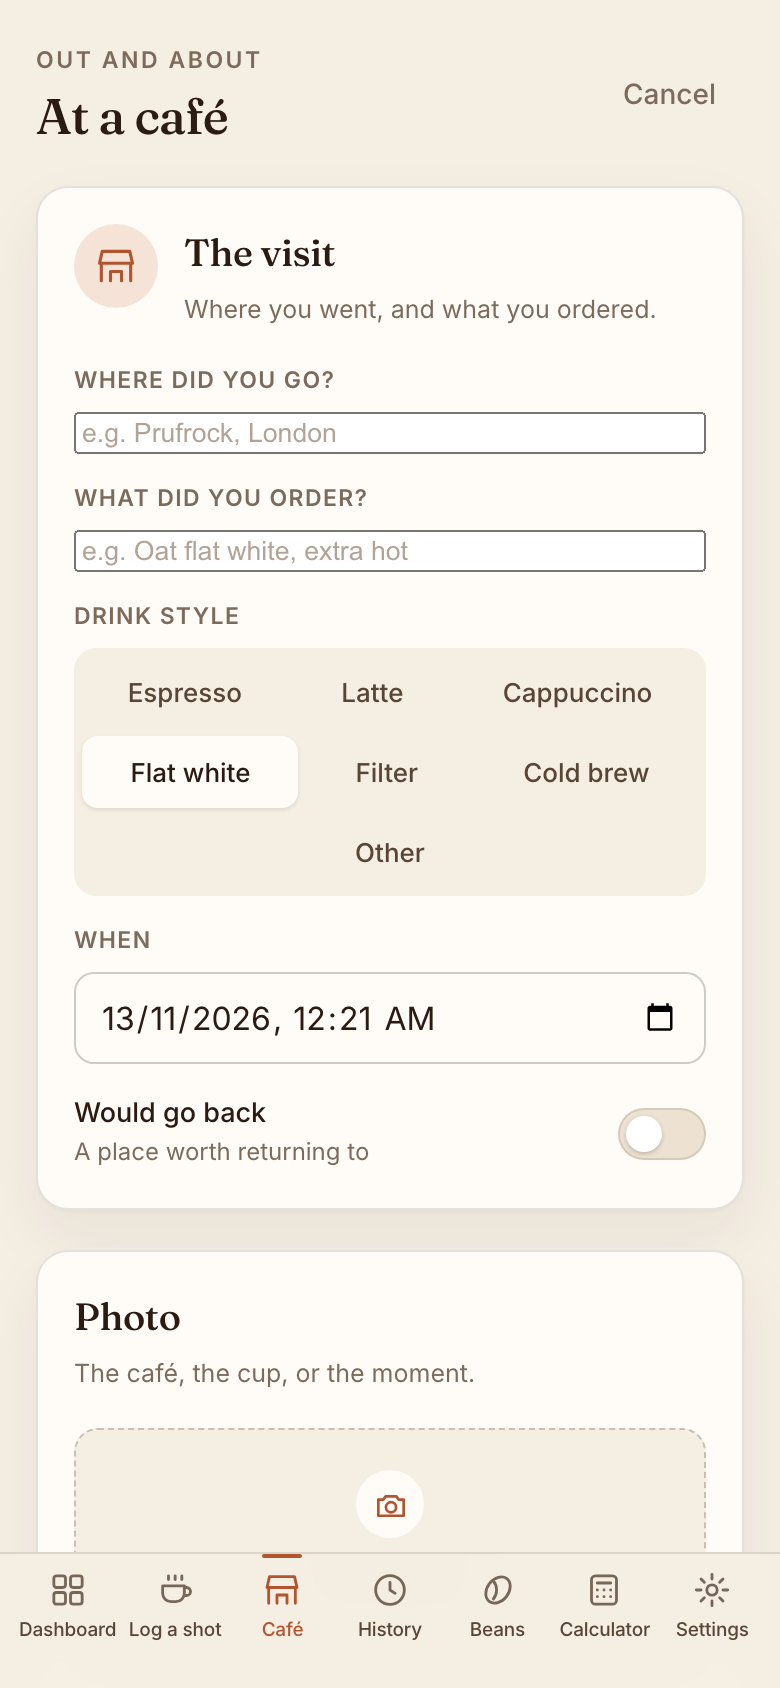
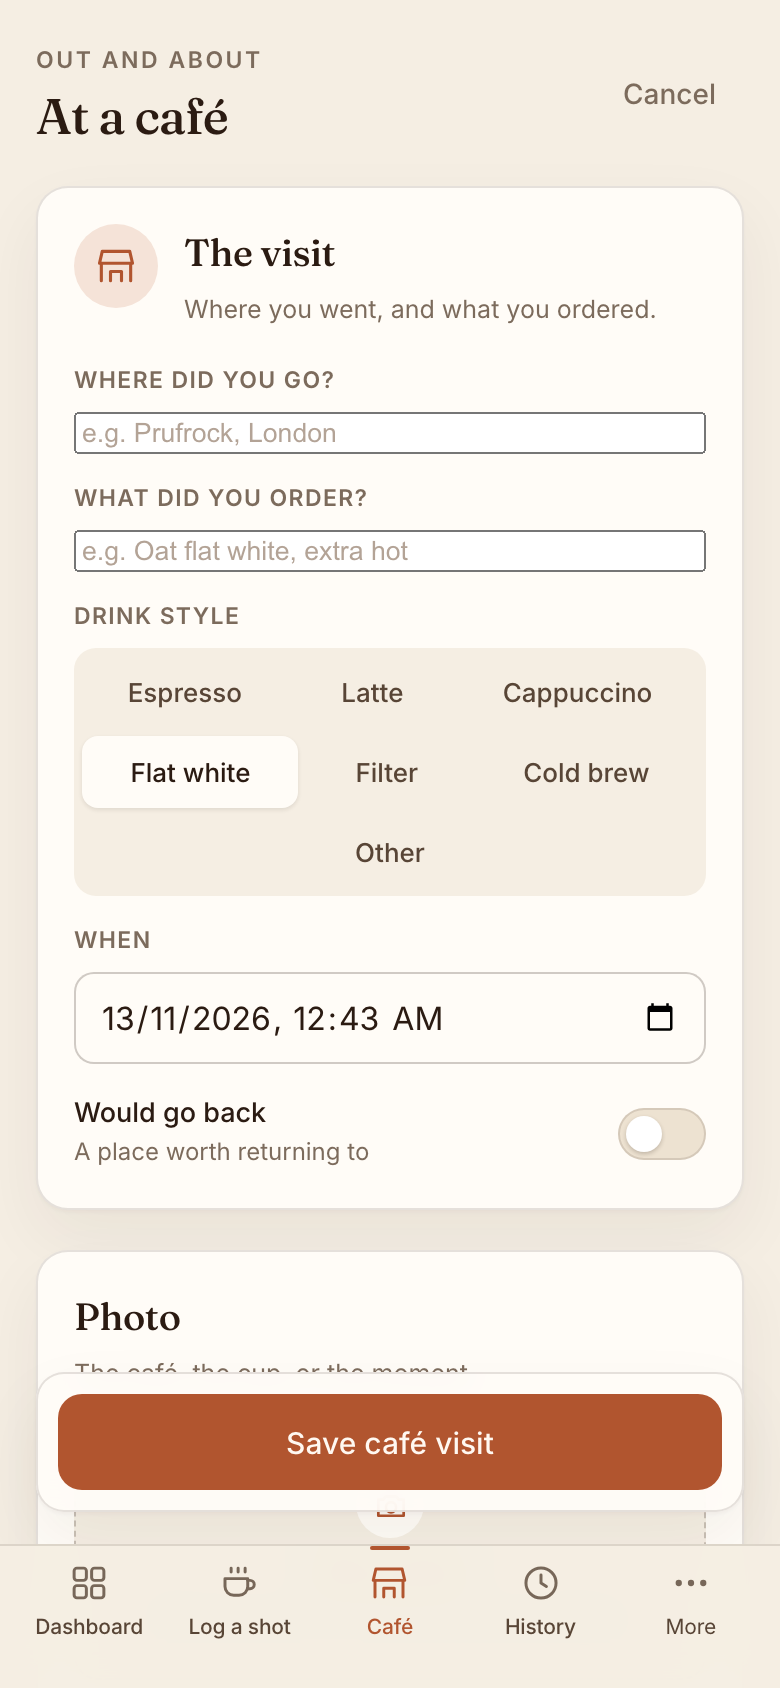
Tidy the mobile navigation bar

diff --git a/static/app.js b/static/app.js
@@ -46,6 +46,7 @@
     grid: '<svg viewBox="0 0 24 24" fill="none" stroke="currentColor" stroke-width="1.7" stroke-linecap="round" stroke-linejoin="round"><rect x="3.5" y="3.5" width="7" height="7" rx="1.6"/><rect x="13.5" y="3.5" width="7" height="7" rx="1.6"/><rect x="3.5" y="13.5" width="7" height="7" rx="1.6"/><rect x="13.5" y="13.5" width="7" height="7" rx="1.6"/></svg>',
     cup: '<svg viewBox="0 0 24 24" fill="none" stroke="currentColor" stroke-width="1.7" stroke-linecap="round" stroke-linejoin="round"><path d="M4 9.5h13v4.5a5 5 0 0 1-5 5H9a5 5 0 0 1-5-5V9.5Z"/><path d="M17 10.5h1.3a2.4 2.4 0 0 1 0 4.8H17"/><path d="M7.5 3.5v2.2M11.5 3.5v2.2M15.5 3.5v2.2"/></svg>',
     cafe: '<svg viewBox="0 0 24 24" fill="none" stroke="currentColor" stroke-width="1.7" stroke-linecap="round" stroke-linejoin="round"><path d="M4 20V10.5M20 20V10.5"/><path d="M3 10.5 4.5 4h15L21 10.5Z"/><path d="M9 20v-5h6v5"/></svg>',
+    more: '<svg viewBox="0 0 24 24" fill="currentColor" stroke="none"><circle cx="5" cy="12" r="1.8"/><circle cx="12" cy="12" r="1.8"/><circle cx="19" cy="12" r="1.8"/></svg>',
     clock: '<svg viewBox="0 0 24 24" fill="none" stroke="currentColor" stroke-width="1.7" stroke-linecap="round" stroke-linejoin="round"><circle cx="12" cy="12" r="8.6"/><path d="M12 7.4V12l3.1 2"/></svg>',
     bean: '<svg viewBox="0 0 24 24" fill="none" stroke="currentColor" stroke-width="1.7" stroke-linecap="round" stroke-linejoin="round"><ellipse cx="12" cy="12" rx="6.4" ry="8.6" transform="rotate(38 12 12)"/><path d="M9.2 6.6c2.6 3 2.6 7.8 0 10.8"/></svg>',
     calc: '<svg viewBox="0 0 24 24" fill="none" stroke="currentColor" stroke-width="1.7" stroke-linecap="round" stroke-linejoin="round"><rect x="4.5" y="3.5" width="15" height="17" rx="2.4"/><path d="M8 7.8h8"/><path d="M8 12h.01M12 12h.01M16 12h.01M8 16h.01M12 16h.01M16 16h.01"/></svg>',
@@ -853,9 +854,9 @@
     { id: "log", label: "Log a shot", icon: "cup" },
     { id: "cafe", label: "Café", icon: "cafe" },
     { id: "history", label: "History", icon: "clock" },
-    { id: "beans", label: "Beans", icon: "bean" },
-    { id: "calculator", label: "Calculator", icon: "calc" },
-    { id: "settings", label: "Settings", icon: "gear" }
+    { id: "beans", label: "Beans", icon: "bean", secondary: true },
+    { id: "calculator", label: "Calculator", icon: "calc", secondary: true },
+    { id: "settings", label: "Settings", icon: "gear", secondary: true }
   ];
 
   var TITLES = {
@@ -878,8 +879,11 @@
           '<nav class="nav" aria-label="Main">' +
             '<div class="nav-label">Journal</div>' +
             NAV.map(function (item) {
-              return '<a class="nav-item" data-nav="' + item.id + '" href="#/' + item.id + '">' + icon(item.icon) + '<span>' + item.label + '</span></a>';
+              return '<a class="nav-item' + (item.secondary ? " nav-secondary" : "") + '" data-nav="' + item.id + '" href="#/' + item.id + '">' + icon(item.icon) + '<span>' + item.label + '</span></a>';
             }).join("") +
+            '<button class="nav-item nav-more" id="nav-more" type="button" aria-expanded="false" aria-controls="more-sheet" aria-haspopup="true">' +
+              icon("more") + '<span>More</span>' +
+            '</button>' +
           '</nav>' +
           '<div class="sidebar-foot">' +
             '<div class="user-chip">' +
@@ -904,10 +908,41 @@
             '<div class="view" id="view" tabindex="-1"></div>' +
           '</div>' +
         '</main>' +
+      '</div>' +
+      '<div class="more-backdrop" id="more-backdrop" hidden></div>' +
+      '<div class="more-sheet" id="more-sheet" hidden role="dialog" aria-label="More sections">' +
+        '<div class="more-sheet-head"><span>More</span>' +
+          '<button class="more-close" id="more-close" type="button" aria-label="Close menu">' + icon("x") + '</button>' +
+        '</div>' +
+        '<div class="more-sheet-links">' +
+          NAV.filter(function (item) { return item.secondary; }).map(function (item) {
+            return '<a class="more-link" data-nav="' + item.id + '" href="#/' + item.id + '">' +
+              icon(item.icon) + '<span>' + item.label + '</span></a>';
+          }).join("") +
+        '</div>' +
       '</div>';
 
     $$("[data-nav]").forEach(function (link) {
       link.addEventListener("click", function () { closeModal(); });
+    });
+
+    var moreButton = $("#nav-more");
+    if (moreButton) {
+      moreButton.addEventListener("click", function (event) {
+        event.stopPropagation();
+        setMoreMenu($("#more-sheet").hidden);
+      });
+    }
+    var moreBackdrop = $("#more-backdrop");
+    if (moreBackdrop) moreBackdrop.addEventListener("click", function () { setMoreMenu(false); });
+    var moreClose = $("#more-close");
+    if (moreClose) moreClose.addEventListener("click", function () { setMoreMenu(false); });
+    $$(".more-link").forEach(function (link) {
+      link.addEventListener("click", function () { setMoreMenu(false); });
+    });
+    var moreSheet = $("#more-sheet");
+    if (moreSheet) moreSheet.addEventListener("keydown", function (event) {
+      if (event.key === "Escape") setMoreMenu(false);
     });
 
     var skip = $("#skip-link");
@@ -949,6 +984,30 @@
       if (active) link.setAttribute("aria-current", "page");
       else link.removeAttribute("aria-current");
     });
+    var more = $("#nav-more");
+    var secondary = NAV.some(function (item) { return item.secondary && item.id === name; });
+    if (more) {
+      more.classList.toggle("active", secondary);
+      if (secondary) more.setAttribute("aria-current", "page");
+      else more.removeAttribute("aria-current");
+    }
+  }
+
+  function setMoreMenu(open) {
+    var button = $("#nav-more");
+    var sheet = $("#more-sheet");
+    var backdrop = $("#more-backdrop");
+    if (!button || !sheet || !backdrop) return;
+    button.setAttribute("aria-expanded", open ? "true" : "false");
+    sheet.hidden = !open;
+    backdrop.hidden = !open;
+    document.body.classList.toggle("more-open", open);
+    if (open) {
+      var first = $(".more-link", sheet);
+      if (first) first.focus();
+    } else if (sheet.contains(document.activeElement)) {
+      button.focus();
+    }
   }
 
   // ------------------------------------------------------------ routing
@@ -969,6 +1028,7 @@
       draftFlush = null;
     }
     if (!$("#view")) renderShell();
+    setMoreMenu(false);
 
     var parsed = parseHash();
     if (!TITLES[parsed.name]) parsed.name = "dashboard";
@@ -2544,7 +2604,7 @@
             '<div class="about-list">' +
               '<div><strong>Crema</strong> · a small coffee journal</div>' +
               '<div>Stored on this home server’s own drive, available to any device you sign in from.</div>' +
-              '<div>Version 1.2.0 · café visits, bags, offline queue</div>' +
+              '<div>Version 1.2.1 · a tidier mobile bar</div>' +
             '</div>' +
             '<div class="divider"></div>' +
             '<button class="btn btn-danger" id="sign-out">' + icon("logout") + 'Sign out</button>' +

diff --git a/static/styles.css b/static/styles.css
@@ -265,6 +265,9 @@ input[type="datetime-local"], input[type="date"] { color-scheme: light; }
 .nav-item:hover { background: rgba(43, 27, 18, .05); color: var(--ink); }
 .nav-item.active { background: var(--ink); color: #f8efe2; }
 .nav-item.active svg { opacity: 1; }
+.nav-more, .more-sheet, .more-backdrop { display: none; }
+.nav-more { border: 0; background: transparent; color: var(--ink-soft); font: inherit; cursor: pointer; }
+.nav-more:focus-visible { outline: 2px solid var(--clay); outline-offset: 2px; }
 
 .sidebar-foot { margin-top: auto; }
 .user-chip {
@@ -1013,10 +1016,10 @@ input:disabled {
 /* ---------------------------------------------------------------- responsive */
 
 @media (max-width: 1020px) {
-  .app-shell { grid-template-columns: 1fr; padding-bottom: calc(78px + env(safe-area-inset-bottom)); min-height: 100dvh; }
+  .app-shell { grid-template-columns: 1fr; padding-bottom: calc(82px + env(safe-area-inset-bottom)); min-height: 100dvh; }
   .sidebar {
     position: fixed; left: 0; right: 0; bottom: 0; top: auto;
-    height: calc(68px + env(safe-area-inset-bottom)); z-index: 60;
+    height: calc(72px + env(safe-area-inset-bottom)); z-index: 60;
     flex-direction: row; align-items: flex-start; gap: 0;
     padding: 8px 8px calc(8px + env(safe-area-inset-bottom));
     border-right: 0;
@@ -1026,9 +1029,9 @@ input:disabled {
   }
   .brand, .nav-label, .sidebar-foot { display: none; }
   .nav { flex-direction: row; flex: 1; gap: 2px; justify-content: space-around; }
-  .nav-item { flex-direction: column; gap: 3px; height: 52px; padding: 0; flex: 1; font-size: 9.5px; border-radius: 9px; letter-spacing: -.01em; }
+  .nav-item { flex-direction: column; gap: 4px; height: 56px; padding: 0; flex: 1; font-size: 10.5px; border-radius: 11px; letter-spacing: -.01em; }
   .nav-item span { white-space: nowrap; }
-  .nav-item svg { width: 20px; height: 20px; }
+  .nav-item svg { width: 21px; height: 21px; }
   .nav-item.active { background: transparent; color: var(--clay); }
   .nav-item.active::before {
     content: "";
@@ -1036,14 +1039,60 @@ input:disabled {
     width: 20px; height: 2px; border-radius: 2px; background: var(--clay);
   }
   .nav-item.active svg { opacity: 1; }
+  .nav-secondary { display: none; }
+  .nav-more { display: flex; }
+  .more-backdrop {
+    display: block;
+    position: fixed; inset: 0; z-index: 61;
+    background: rgba(30, 18, 11, .28);
+    backdrop-filter: blur(2px);
+  }
+  .more-backdrop[hidden] { display: none; }
+  .more-sheet {
+    display: block;
+    position: fixed; left: 10px; right: 10px;
+    bottom: calc(82px + env(safe-area-inset-bottom));
+    z-index: 62;
+    padding: 10px;
+    border: 1px solid var(--line);
+    border-radius: 18px;
+    background: rgba(255, 252, 247, .98);
+    box-shadow: 0 20px 50px rgba(43, 27, 18, .18);
+    backdrop-filter: blur(12px);
+  }
+  .more-sheet[hidden] { display: none; }
+  .more-sheet-head {
+    display: flex; align-items: center; justify-content: space-between;
+    padding: 4px 6px 10px;
+    font-size: 11px; font-weight: 600; letter-spacing: .12em; text-transform: uppercase;
+    color: var(--muted);
+  }
+  .more-close {
+    width: 32px; height: 32px; display: grid; place-items: center;
+    border: 0; border-radius: 50%; background: var(--cream); color: var(--ink-soft); cursor: pointer;
+  }
+  .more-close svg { width: 15px; height: 15px; }
+  .more-sheet-links { display: grid; grid-template-columns: repeat(3, minmax(0, 1fr)); gap: 8px; }
+  .more-link {
+    display: flex; flex-direction: column; align-items: center; justify-content: center; gap: 8px;
+    padding: 16px 8px;
+    border-radius: 14px;
+    background: var(--cream);
+    color: var(--ink-soft);
+    font-size: 12px; font-weight: 500;
+    text-decoration: none;
+  }
+  .more-link svg { width: 22px; height: 22px; color: var(--clay); }
+  .more-link.active { background: var(--ink); color: #f8efe2; }
+  .more-link.active svg { color: #f8efe2; }
   .topbar-actions .topbar-cta { display: none; }
   .main { padding: 22px 18px 40px; }
   .topbar { margin-bottom: 20px; }
   .log-grid, .split, .settings-grid, .calc-grid { grid-template-columns: minmax(0, 1fr); }
   .stat-grid { grid-template-columns: repeat(2, minmax(0, 1fr)); }
   .hero { flex-direction: column; align-items: flex-start; padding: 30px 26px; }
-  .form-actions { bottom: calc(84px + env(safe-area-inset-bottom)); }
-  .toast-root { bottom: calc(88px + env(safe-area-inset-bottom)); }
+  .form-actions { bottom: calc(88px + env(safe-area-inset-bottom)); }
+  .toast-root { bottom: calc(92px + env(safe-area-inset-bottom)); }
 }
 
 @media (max-width: 860px) {

diff --git a/static/sw.js b/static/sw.js
@@ -1,6 +1,6 @@
 /* Crema service worker — network first, with an offline copy of the shell. */
 
-const CACHE = "crema-shell-v7";
+const CACHE = "crema-shell-v8";
 const SHELL = [
   "/",
   "/index.html",

diff --git a/README.md b/README.md
@@ -22,9 +22,13 @@ No ads, no tracking, no third-party services. Your data stays in a SQLite file o
 | --- | --- |
 | ![Beans](docs/screenshots/beans.png) | ![Settings](docs/screenshots/settings.png) |
 
-| Café visits on mobile | Sign in |
+| Café visits on mobile | Mobile navigation |
 | --- | --- |
-| ![Café log on mobile](docs/screenshots/cafe-log-mobile.png) | ![Sign in](docs/screenshots/sign-in.png) |
+| ![Café log on mobile](docs/screenshots/cafe-log-mobile.png) | ![Mobile navigation](docs/screenshots/mobile-nav.png) |
+
+| More menu | Sign in |
+| --- | --- |
+| ![More menu](docs/screenshots/mobile-more.png) | ![Sign in](docs/screenshots/sign-in.png) |
 
 ## Features
 
@@ -42,7 +46,7 @@ No ads, no tracking, no third-party services. Your data stays in a SQLite file o
 - **Exports.** CSV, JSON, or a multi-page designed PDF journal with photos, recipes, tasting notes, balance meters, and a cellar table.
 - **Automatic backups.** Crema writes a consistent zip of the database and photos every night, keeps the last 14, and lets the owner download or trigger one from Settings. Point `rclone` at the folder to copy them into Google Drive.
 - **Accounts.** Each person gets a private journal. The owner account can require approval for new sign-ups.
-- **PWA.** Installable, mobile-first, with offline reading and a queue for new shots.
+- **PWA.** Installable, mobile-first, with offline reading, a queue for new shots, and a five-item mobile bar with a More menu.
 - **Small footprint.** Flask + SQLite, no external database or services. Backups run inside the app process.
 
 ## Quick start
